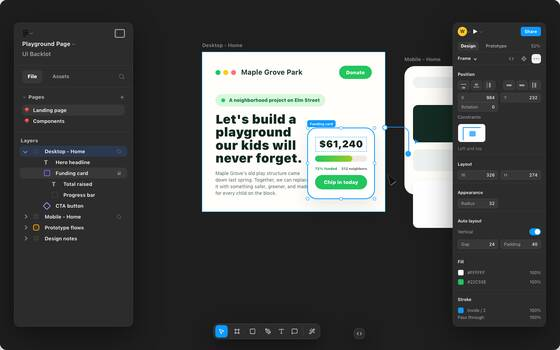
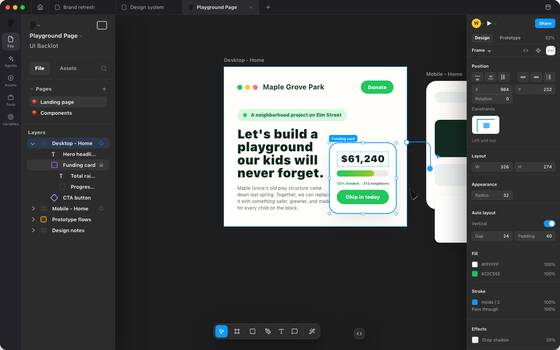
Catalog: uniform 8/5 contained card stages so every app section reads at one size
Menu-bar slivers, squat Finder windows, and 16:10 app windows previously
rendered cards at wildly different heights. Demo GIF cards keep natural flow.

diff --git a/docs/index.html b/docs/index.html
@@ -66,7 +66,11 @@ body[data-view="home"] #home { display: block; }
 body[data-view="home"] main section.app { display: none; }
 .grid { display: grid; grid-template-columns: repeat(auto-fill, minmax(300px, 1fr)); gap: 16px; }
 .card { margin: 0; background: var(--card); border: 1px solid var(--line); border-radius: 12px; overflow: hidden; display: flex; flex-direction: column; }
-.card img { width: 100%; display: block; border-bottom: 1px solid var(--line); background: #dcdcd8; }
+/* Uniform card stage: every surface thumb — menu-bar sliver, squat Finder,
+   full 16:10 app window — sits in the same 8/5 box, contained, so each app
+   section reads at one consistent card size. Demo GIFs keep natural flow. */
+.card img { width: 100%; aspect-ratio: 8 / 5; object-fit: contain; padding: 10px; box-sizing: border-box; display: block; border-bottom: 1px solid var(--line); background: #dcdcd8; }
+.card.demo img { aspect-ratio: auto; object-fit: fill; padding: 0; }
 .card.demo { outline: 1px solid color-mix(in srgb, var(--fam, var(--accent)) 40%, transparent); outline-offset: -1px; }
 .thumb-empty { display: grid; place-items: center; min-height: 150px; color: var(--muted); font-size: 13px; border-bottom: 1px solid var(--line); }
 figcaption { display: flex; flex-direction: column; gap: 6px; padding: 12px 14px 14px; font-size: 14px; }